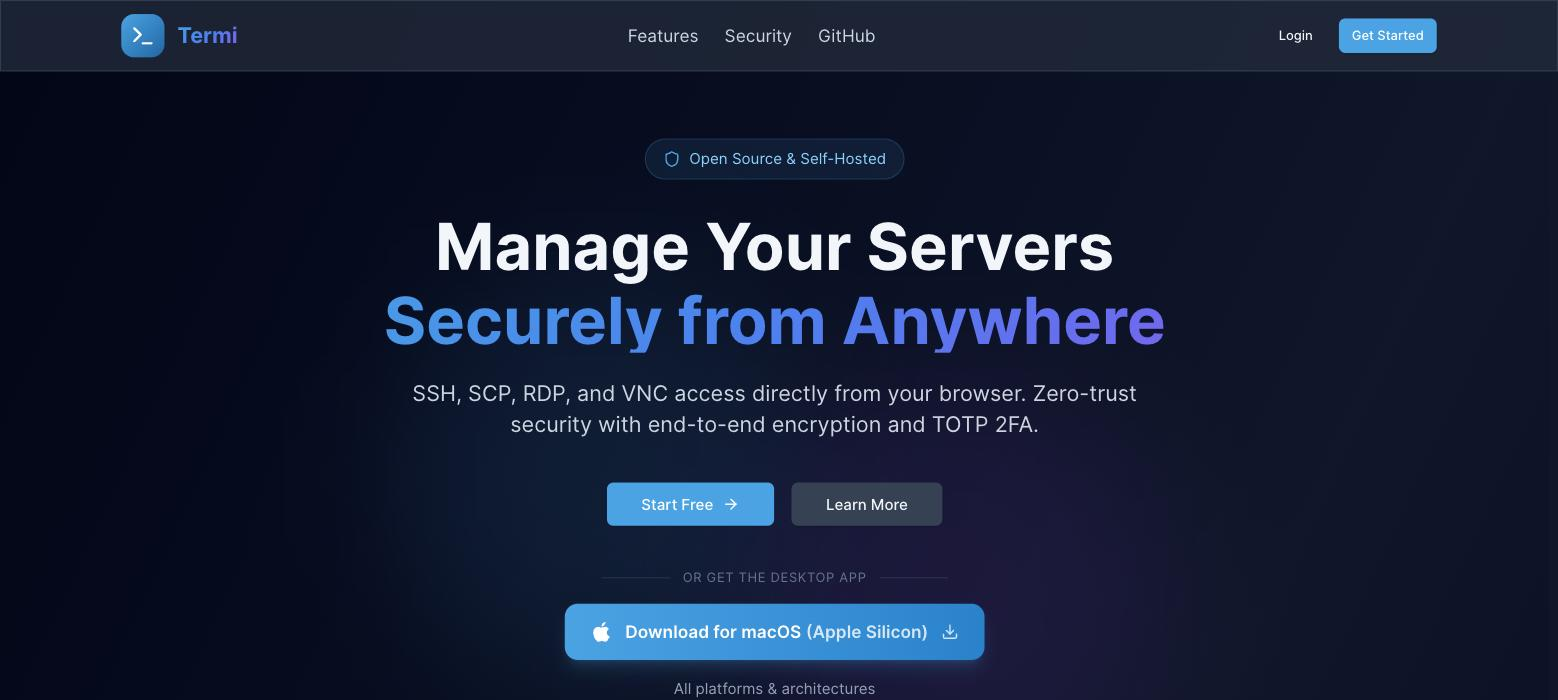
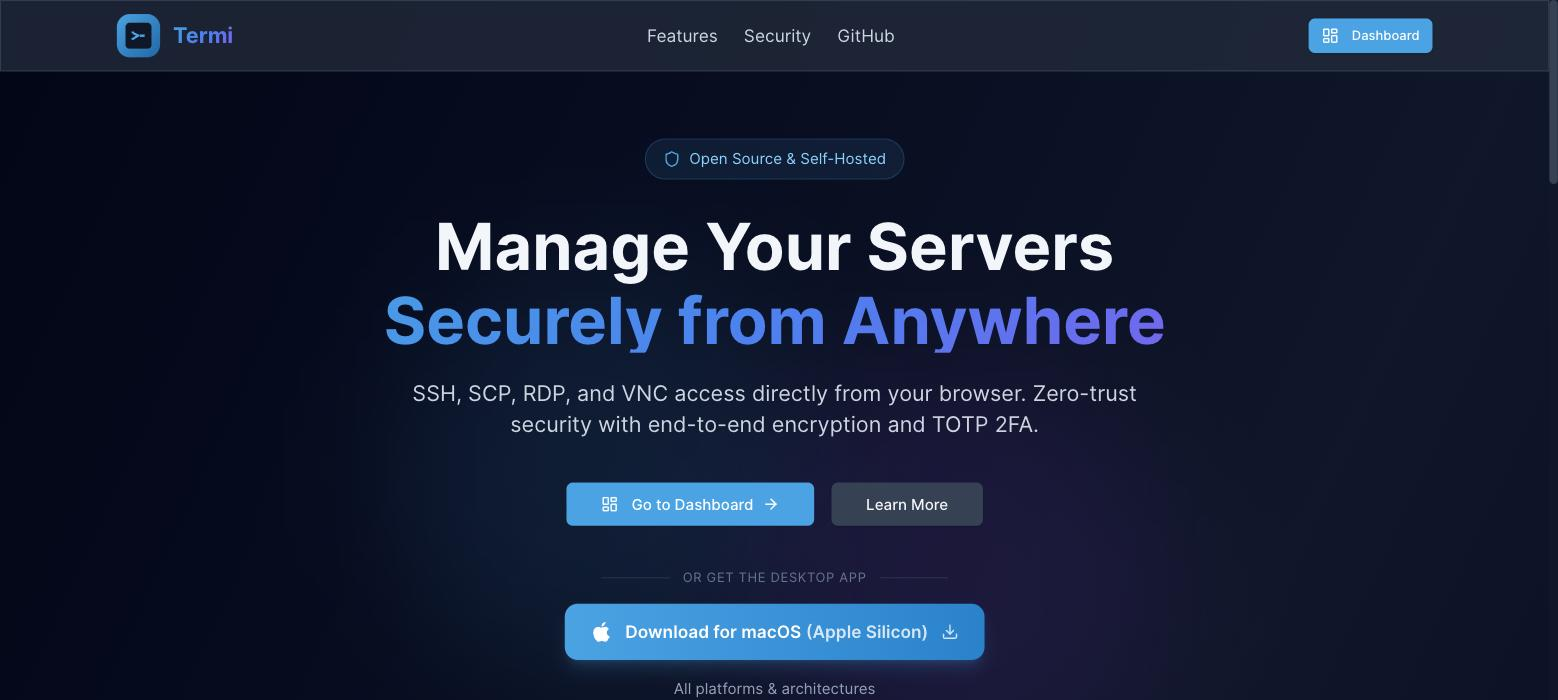
docs: update environment variables and README for clarity on self-hosting

diff --git a/README.md b/README.md
@@ -4,6 +4,8 @@
 
 **Self-hosted server management — SSH, SCP, RDP, VNC & local terminal from your browser or desktop**
 
+_Termi runs in production at **[termi.run](https://termi.run)** — try it there, or follow [Quick Start](#-quick-start) to self-host your own instance._
+
 [![GitHub stars](https://img.shields.io/github/stars/shuv-o/termi?style=social)](https://github.com/shuv-o/termi/stargazers)
 [![License: MIT](https://img.shields.io/badge/License-MIT-blue.svg)](LICENSE)
 [![CI](https://github.com/shuv-o/termi/actions/workflows/ci.yml/badge.svg)](https://github.com/shuv-o/termi/actions/workflows/ci.yml)
@@ -15,7 +17,7 @@
 
 [![Ko-fi](https://img.shields.io/badge/Support-Ko--fi-FF5E5B.svg?logo=ko-fi&logoColor=white)](https://ko-fi.com/shuvoo)
 
-**[🌐 Website](https://termi.run)** · **[📖 Wiki](https://github.com/shuv-o/termi/wiki)** · **[⬇ Download](https://github.com/shuv-o/termi/releases/latest)** · **[💬 Discussions](https://github.com/shuv-o/termi/discussions)**
+**[🚀 Live Demo](https://termi.run)** · **[📖 Wiki](https://github.com/shuv-o/termi/wiki)** · **[⬇ Download](https://github.com/shuv-o/termi/releases/latest)** · **[💬 Discussions](https://github.com/shuv-o/termi/discussions)**
 
 </div>
 
